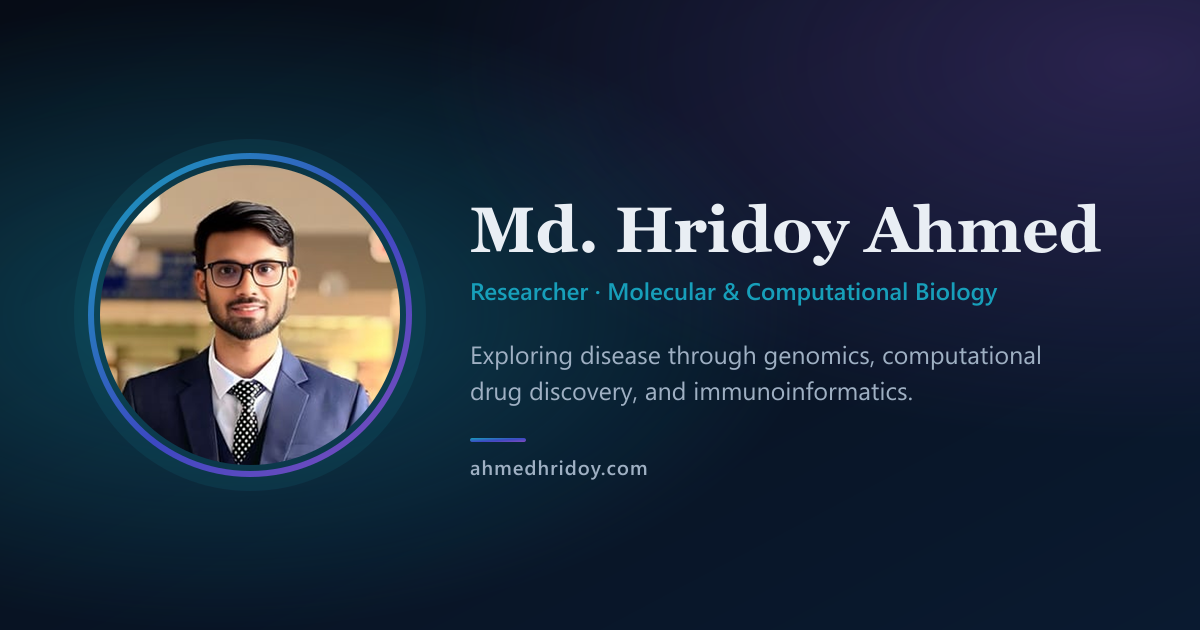
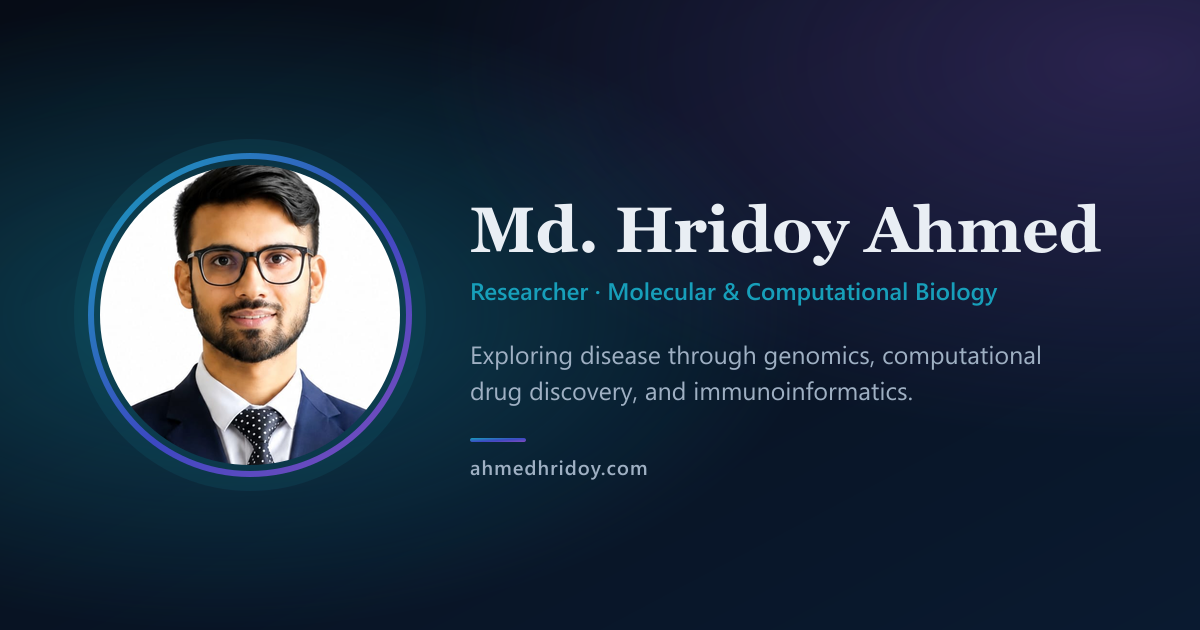
fg

Changed region(s): [[0.0617, 0.2413, 0.3392, 0.754]]

diff --git a/src/lib/utils.ts b/src/lib/utils.ts
@@ -24,7 +24,7 @@ export function withBasePath(path: string): string {
  * fetch the new file. Bump it (→ "3", "4", …) every time you replace one of
  * those assets, then rebuild + redeploy.
  */
-export const ASSET_VERSION = "4";
+export const ASSET_VERSION = "5";
 
 /**
  * Like withBasePath, but appends ?v=<ASSET_VERSION> so an in-place asset swap
